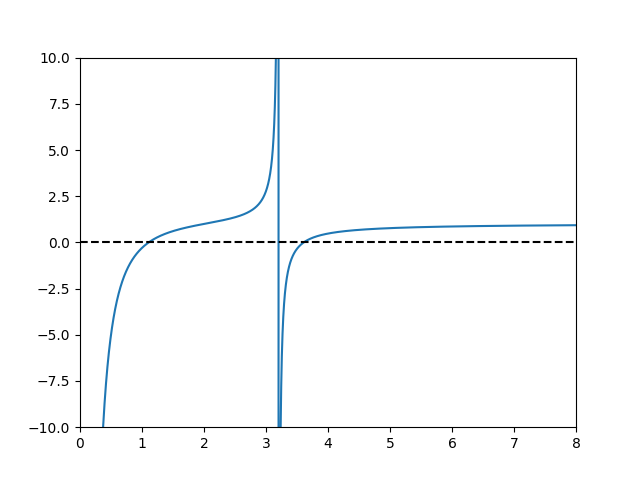
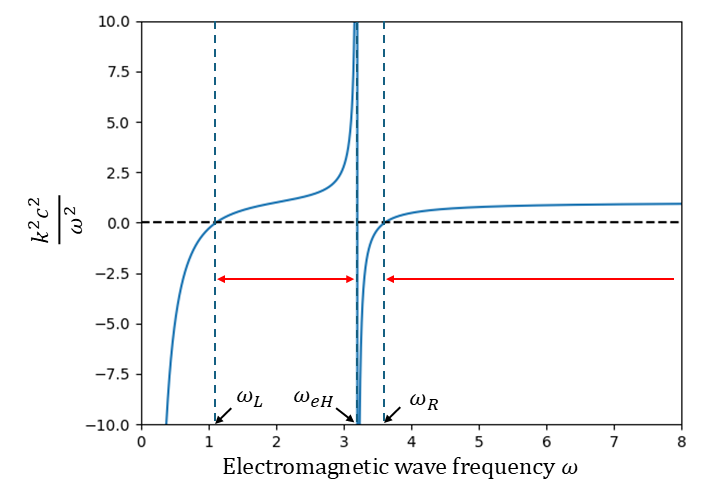
figure

diff --git a/docs/physics/electromagnetic-wave-ambient-field.md b/docs/physics/electromagnetic-wave-ambient-field.md
@@ -1,14 +1,14 @@
 # 背景磁場のある電磁波
-背景磁場のある場合の電磁波の分散関係を導出する。背景磁場と電磁波の相互作用は背景磁場と電磁波の電場、磁場、波数とどの向きに平行かで下記の3通りに分類される。
+背景磁場のある場合の電磁波の分散関係を導出しましょう。背景磁場と電磁波の相互作用は背景磁場と電磁波の電場、磁場、波数とどの向きに平行かで下記の3通りに分類されます。
 
 1. 背景磁場が電場 $\bm{E}_1$ に平行 $\to$ Oモード
 1. 背景磁場が磁場 $\bm{B}_1$ に平行 $\to$ Xモード
 1. 背景磁場が波数 $\bm{k}$ に平行
 
-なお一般の角度についてはAppleton-Hartreeの関係式として知られている。
+本稿ではこれらの基本的な3つのケースについて分散関係式を導出します。なお一般の角度についてはAppleton-Hartreeの関係式として知られています。
 
 ## 基礎方程式
-まず基礎方程式を書き下しておこう。背景磁場 $\bm{B}_0$ のある系での高周波の振動を考える。つまりcold ionを仮定して $T_i = 0$とする。電子の運動方程式、Maxwell方程式、電流の式を線形化して電磁波の揺動による電場 $\bm{E}_1$ と磁場 $\bm{B}_1$ とすると
+まず基礎方程式を書き下しておきましょう。背景磁場 $\bm{B}_0$ のある系での高周波の振動を考えます。つまりcold ionを仮定して $T_i = 0$とします。電子の運動方程式、Maxwell方程式、電流の式を線形化して電磁波の揺動による電場 $\bm{E}_1$ と磁場 $\bm{B}_1$ とすると
 
 $$
     m_e n_0 \frac{\partial \bm{v}}{\partial t} 
@@ -31,23 +31,23 @@ $$
     \bm{j} = -en_0\bm{v} \tag{1.4}
 $$
 
-となる。
+となります。
 
 ## (1) $\bm{B}_0 \parallel \bm{E}_1$ : Oモード（通常波）
-まず電磁波の磁場 $\bm{B}_1$ が背景磁場 $\bm{B}_0$に垂直な場合を考える。つまり電磁波の電場 $\bm{E}_1$ は背景磁場に平行である。
+まず電磁波の磁場 $\bm{B}_1$ が背景磁場 $\bm{B}_0$に垂直な場合を考えましょう。つまり電磁波の電場 $\bm{E}_1$ は背景磁場に平行です。
 
-この場合、電子は電磁波の電場によって往復運動をするが、背景磁場と往復運動は平行であるためローレンツ力は0になり磁場は粒子に力を及ぼさない。したがって分散関係も背景磁場のない場合と変わらず
+この場合、電子は電磁波の電場によって往復運動をするが、背景磁場と往復運動は平行であるためローレンツ力は0になり磁場は粒子に力を及ぼしません。したがって分散関係も背景磁場のない場合と変わらず
 
 $$
     \omega^2 = \omega_p^2 + k^2 c^2 \tag{2.1}
 $$
 
-である。このモードをOモード（ordinary mode, 通常波）と呼ぶ。
+となります。このモードを**Oモード**（**ordinary mode**, **通常波**）と呼びます。
 
 ## (2) $\bm{B}_0 \parallel \bm{B}_1$ : Xモード（異常波）
-z方向に背景磁場 $\bm{B}_0 = B_0 \bm{e}_z$ のある系に、背景磁場に平行な磁場を持つ電磁波を入射するとする。つまり波数$\bm{k}=k\bm{e}_x$とし、背景電場がない場合の偏光を電場の向きがy方向とする。
+次に、$z$方向に背景磁場 $\bm{B}_0 = B_0 \bm{e}_z$ のある系に、背景磁場に平行な磁場を持つ電磁波を入射するとしましょう。つまり波数$\bm{k}=k\bm{e}_x$とし、背景電場がない場合の偏光を電場の向きが$y$方向と定めます。
 
-このとき、電子は電場の方向に振動するのでy方向の速度 $v_y$ を持つ。この速度は背景磁場と垂直なので電子にはローレンツ力が働いてx方向の運動も誘起される。電子がx方向に動くということはそれに従って電場も誘起されると考えられるので、レーザーの揺動電場は$\bm{E}_1 = E_x \bm{e}_x + E_y \bm{e}_y$となる。
+このとき、電子は電場の方向に振動するのでy方向の速度 $v_y$ を持ちます。この速度は背景磁場と垂直なので電子にはローレンツ力が働いて$x$方向の運動も誘起されます。電子が$x$方向に動くということはそれに従って電場も誘起されると考えられます。したがってレーザーの揺動電場は$\bm{E}_1 = E_x \bm{e}_x + E_y \bm{e}_y$となります。
 
 $E_x, E_y$ それぞれの成分について電子の運動方程式(1.1)をFourier変換しながら書き下すと
 
@@ -59,13 +59,13 @@ $$
     -i \omega m_e v_y = -e E_y +\frac{e}{c} v_x B_0 \tag{3.2}
 $$
 
-となる。次にファラデーの法則(1.2)はz成分を考えて
+となります。次にファラデーの法則(1.2)は$z$成分を考えて
 
 $$
     kE_y = \frac{\omega}{c} B_1 \tag{3.3}
 $$
 
-となる。次にアンペールの法則(1.3)は$x,y$の2つの成分について
+となります。次にアンペールの法則(1.3)は$x,y$の2つの成分について
 
 $$
     0 = -\frac{4\pi en_0}{c}v_x - \frac{i\omega}{c}E_x \tag{3.4}
@@ -75,7 +75,7 @@ $$
     -ikB_1 = -\frac{4\pi en_0}{c}v_y - \frac{i\omega}{c}E_y \tag{3.5}
 $$
 
-となる。まずは$v_x, v_y$を消去するために(3.4), (3.5)を用いて
+となります。まずは$v_x, v_y$を消去するために(3.4), (3.5)を用いて
 
 $$
     v_x = -\frac{i\omega}{4\pi n_0 e}E_x \tag{3.6}
@@ -85,7 +85,7 @@ $$
     v_y = \frac{ikB_1 c}{4\pi n_0 e}B_1 -\frac{i\omega}{4\pi n_0 e}E_y \tag{3.7}
 $$
 
-となる。さらに(3.3)を(3.7)代入すると
+となります。さらに(3.3)を(3.7)代入すると
 
 $$
     v_y = \left(
@@ -95,7 +95,7 @@ $$
     \tag{3.8}
 $$
 
-となる。(3.6), (3.8)を(3.1),(3.2)に代入して
+となります。(3.6), (3.8)を(3.1),(3.2)に代入して
 
 $$
     0 = \left(e-\frac{\omega^2 m_e}{4\pi n_0 e}\right) E_x 
@@ -112,7 +112,7 @@ $$
     \tag{3.10}
 $$
 
-を得る。ここで、$E_x, E_y$は互いに虚数倍になっているので、振動の位相が $\pi/2$ ずれていて$(E_x, E_y)$は楕円上を振動する。
+を得ます。ここで、$E_x, E_y$は互いに虚数倍になっているので、振動の位相が $\pi/2$ ずれていて$(E_x, E_y)$は楕円上を振動することがわかります。
 
 非自明な波動$(E_x, E_y)$が存在するためには連立方程式の(3.9),(3.10)の係数行列の行列式が0でなければならないので、
 
@@ -124,7 +124,7 @@ $$
     \tag{3.11}
 $$
 
-を得る。ここで
+を得ます。ここで
 
 $$
     \omega_{pe}^2 \equiv \frac{4\pi n_0 e^2}{m_e} \tag{3.12}
@@ -134,9 +134,9 @@ $$
     \omega_{ce} \equiv \frac{eB_0}{m_e c} \tag{3.13}
 $$
 
-でそれぞれ電子のプラズマ振動数、サイクロトロン周波数を表す。(3.11)がXモードの分散関係式である。
+でそれぞれ電子のプラズマ振動数、サイクロトロン周波数を表します。(3.11)がXモードの分散関係式です。
 
-見通しをよくするために $k^2 c^2 / \omega^2 = \cdots$の形に直したい。まず $k^2 c^2 / \omega_{pe}^2$ に着目して整理すると
+見通しをよくするために $k^2 c^2 / \omega^2 = \cdots$の形に直しましょう。まず $k^2 c^2 / \omega_{pe}^2$ に着目して整理すると
 
 $$
     \frac{k^2 c^2}{\omega_{pe}^2} 
@@ -146,7 +146,7 @@ $$
     \tag{3.14}
 $$
 
-となる。両辺 $\omega_{pe}^2 / \omega^2$ 倍して分母を変換すると
+となります。両辺 $\omega_{pe}^2 / \omega^2$ 倍して分母を変換すると
 
 $$
     \frac{k^2c^2}{\omega^2} 
@@ -159,7 +159,7 @@ $$
         \tag{3.15}
 $$
 
-となる。ここで混成周波数を
+となります。ここで混成周波数を
 
 $$
     \omega_{eH}^2 \equiv \omega_{pe}^2 + \omega_{ce}^2
@@ -172,9 +172,9 @@ $$
     \tag{3.16}
 $$
 
-となる。
+となります。
 
-カットオフを示すためには(3.16)のゼロ点を考えればよい。実際に$k=0$を(3.16)に代入すると
+カットオフを示すために(3.16)のゼロ点を考えましょう。実際に$k=0$を(3.16)に代入すると
 
 $$
     0 = 1-\frac{\omega_{pe}^2}{\omega^2}\frac{\omega^2-\omega_{ce}^2}{\omega^2-\omega_{eH}^2}
@@ -193,7 +193,7 @@ $$
     \frac{\omega_{pe}^2}{\omega^2} = 1-\frac{\omega_{ce}^2}{\omega^2-\omega_{pe}^2}
 $$
 
-となる。移項して分母を$\omega^2$で約分すると
+となります。移項して分母を$\omega^2$で約分すると
 
 $$
     1-\frac{\omega_{pe}^2}{\omega^2}=\frac{\frac{\omega_{ce^2}}{\omega^2}}{1-\frac{\omega_{pe}^2}{\omega^2}}
@@ -205,7 +205,7 @@ $$
 \left(1-\frac{\omega_{pe}^2}{\omega^2}\right)^2=\frac{\omega_{ce^2}}{\omega^2}
 $$
 
-となる。平方根を取ると
+となります。平方根を取ると
 
 $$
 1-\frac{\omega_{pe}^2}{\omega^2}=\pm\frac{\omega_{ce}}{\omega}
@@ -217,7 +217,7 @@ $$
 \omega^2 \pm \omega_{ce}\omega-\omega_{pe}^2=0
 $$
 
-となるから、解の公式からこの解は
+となり、解の公式からこの解は
 
 $$
 \omega_L = \frac{\omega_{ce}}{2}+\sqrt{\omega_{pe}^2+\frac{\omega_{ce}^2}{4}}
@@ -229,10 +229,18 @@ $$
 \tag{3.19}
 $$
 
-となる。これらはそれぞれ左回り偏光、右回り偏光に対応している。
+となります。これらはそれぞれ左回り偏光、右回り偏光に対応しています。
 
-$\omega - (c^2k^2)/\omega^2$ グラフを見ながら考えてみよう。このグラフでは$\omega_{pe} = 2.0$, 
+$\omega - (c^2k^2)/\omega^2$ グラフを見ながら考えてみましょう。このグラフでは$\omega_{pe} = 2.0$, 
 $\omega_{ce} = 2.5$と設定しており、$\omega_L= 3.61$, $\omega_R= 1.11$, $\omega_{eH}= 3.20$である。実際に電磁波が伝播できる領域は分散関係の曲線が点線より上にある領域のみである。
+
+```{figure} images/xmode.png
+:name: fig-soliton
+:width: 100%
+
+分散関係。赤矢印で示した範囲でのみ電磁波が伝播できる。
+```
+
 
 * まず$\omega$の小さな領域（$\omega < 1$）では伝播することができずカットオフされる。
 * $\omega = \omega_L$で最初のゼロ点を迎え、それ以降は伝播する。
@@ -240,7 +248,6 @@ $\omega_{ce} = 2.5$と設定しており、$\omega_L= 3.61$, $\omega_R= 1.11$, $
 * それを超えると再びカットオフ領域$\omega_{eH} < \omega < \omega_{R}$に入り、伝搬できない。
 * $\omega_R < \omega$に入ると再び伝播可能となる。
 
-![figure](images/xmode.png)
 
 
 <!-- ## (3) $\bm{B}_0 \parallel \bm{k}$ : 背景磁場に沿って伝播する電磁波
